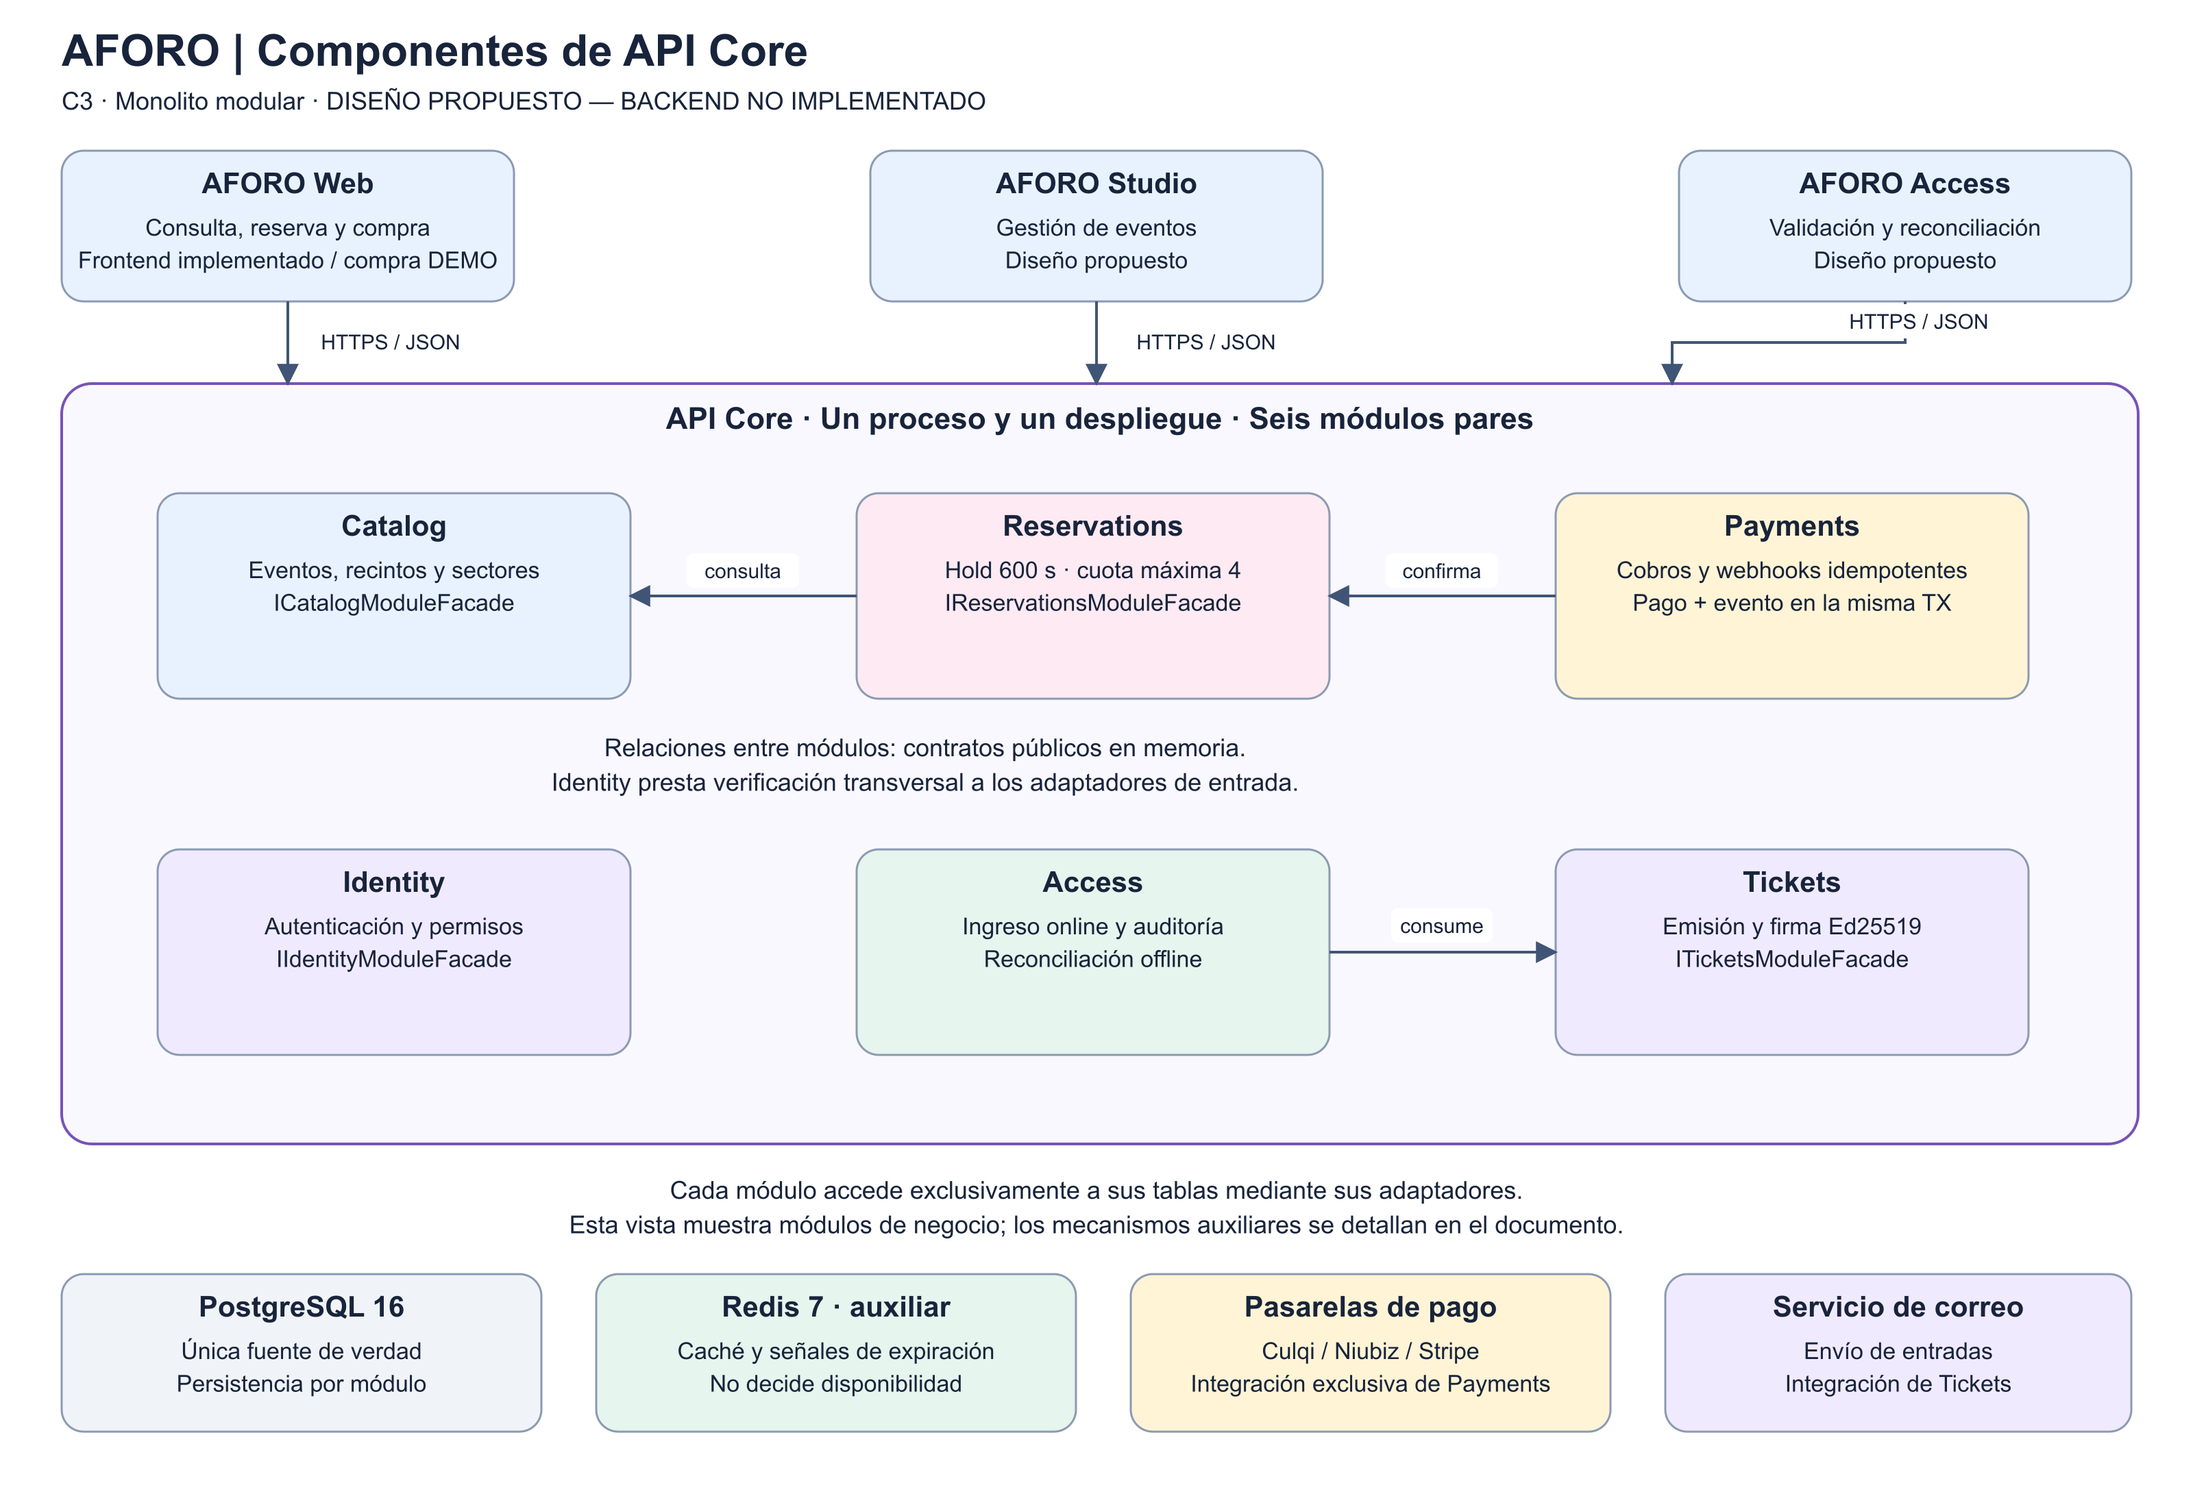
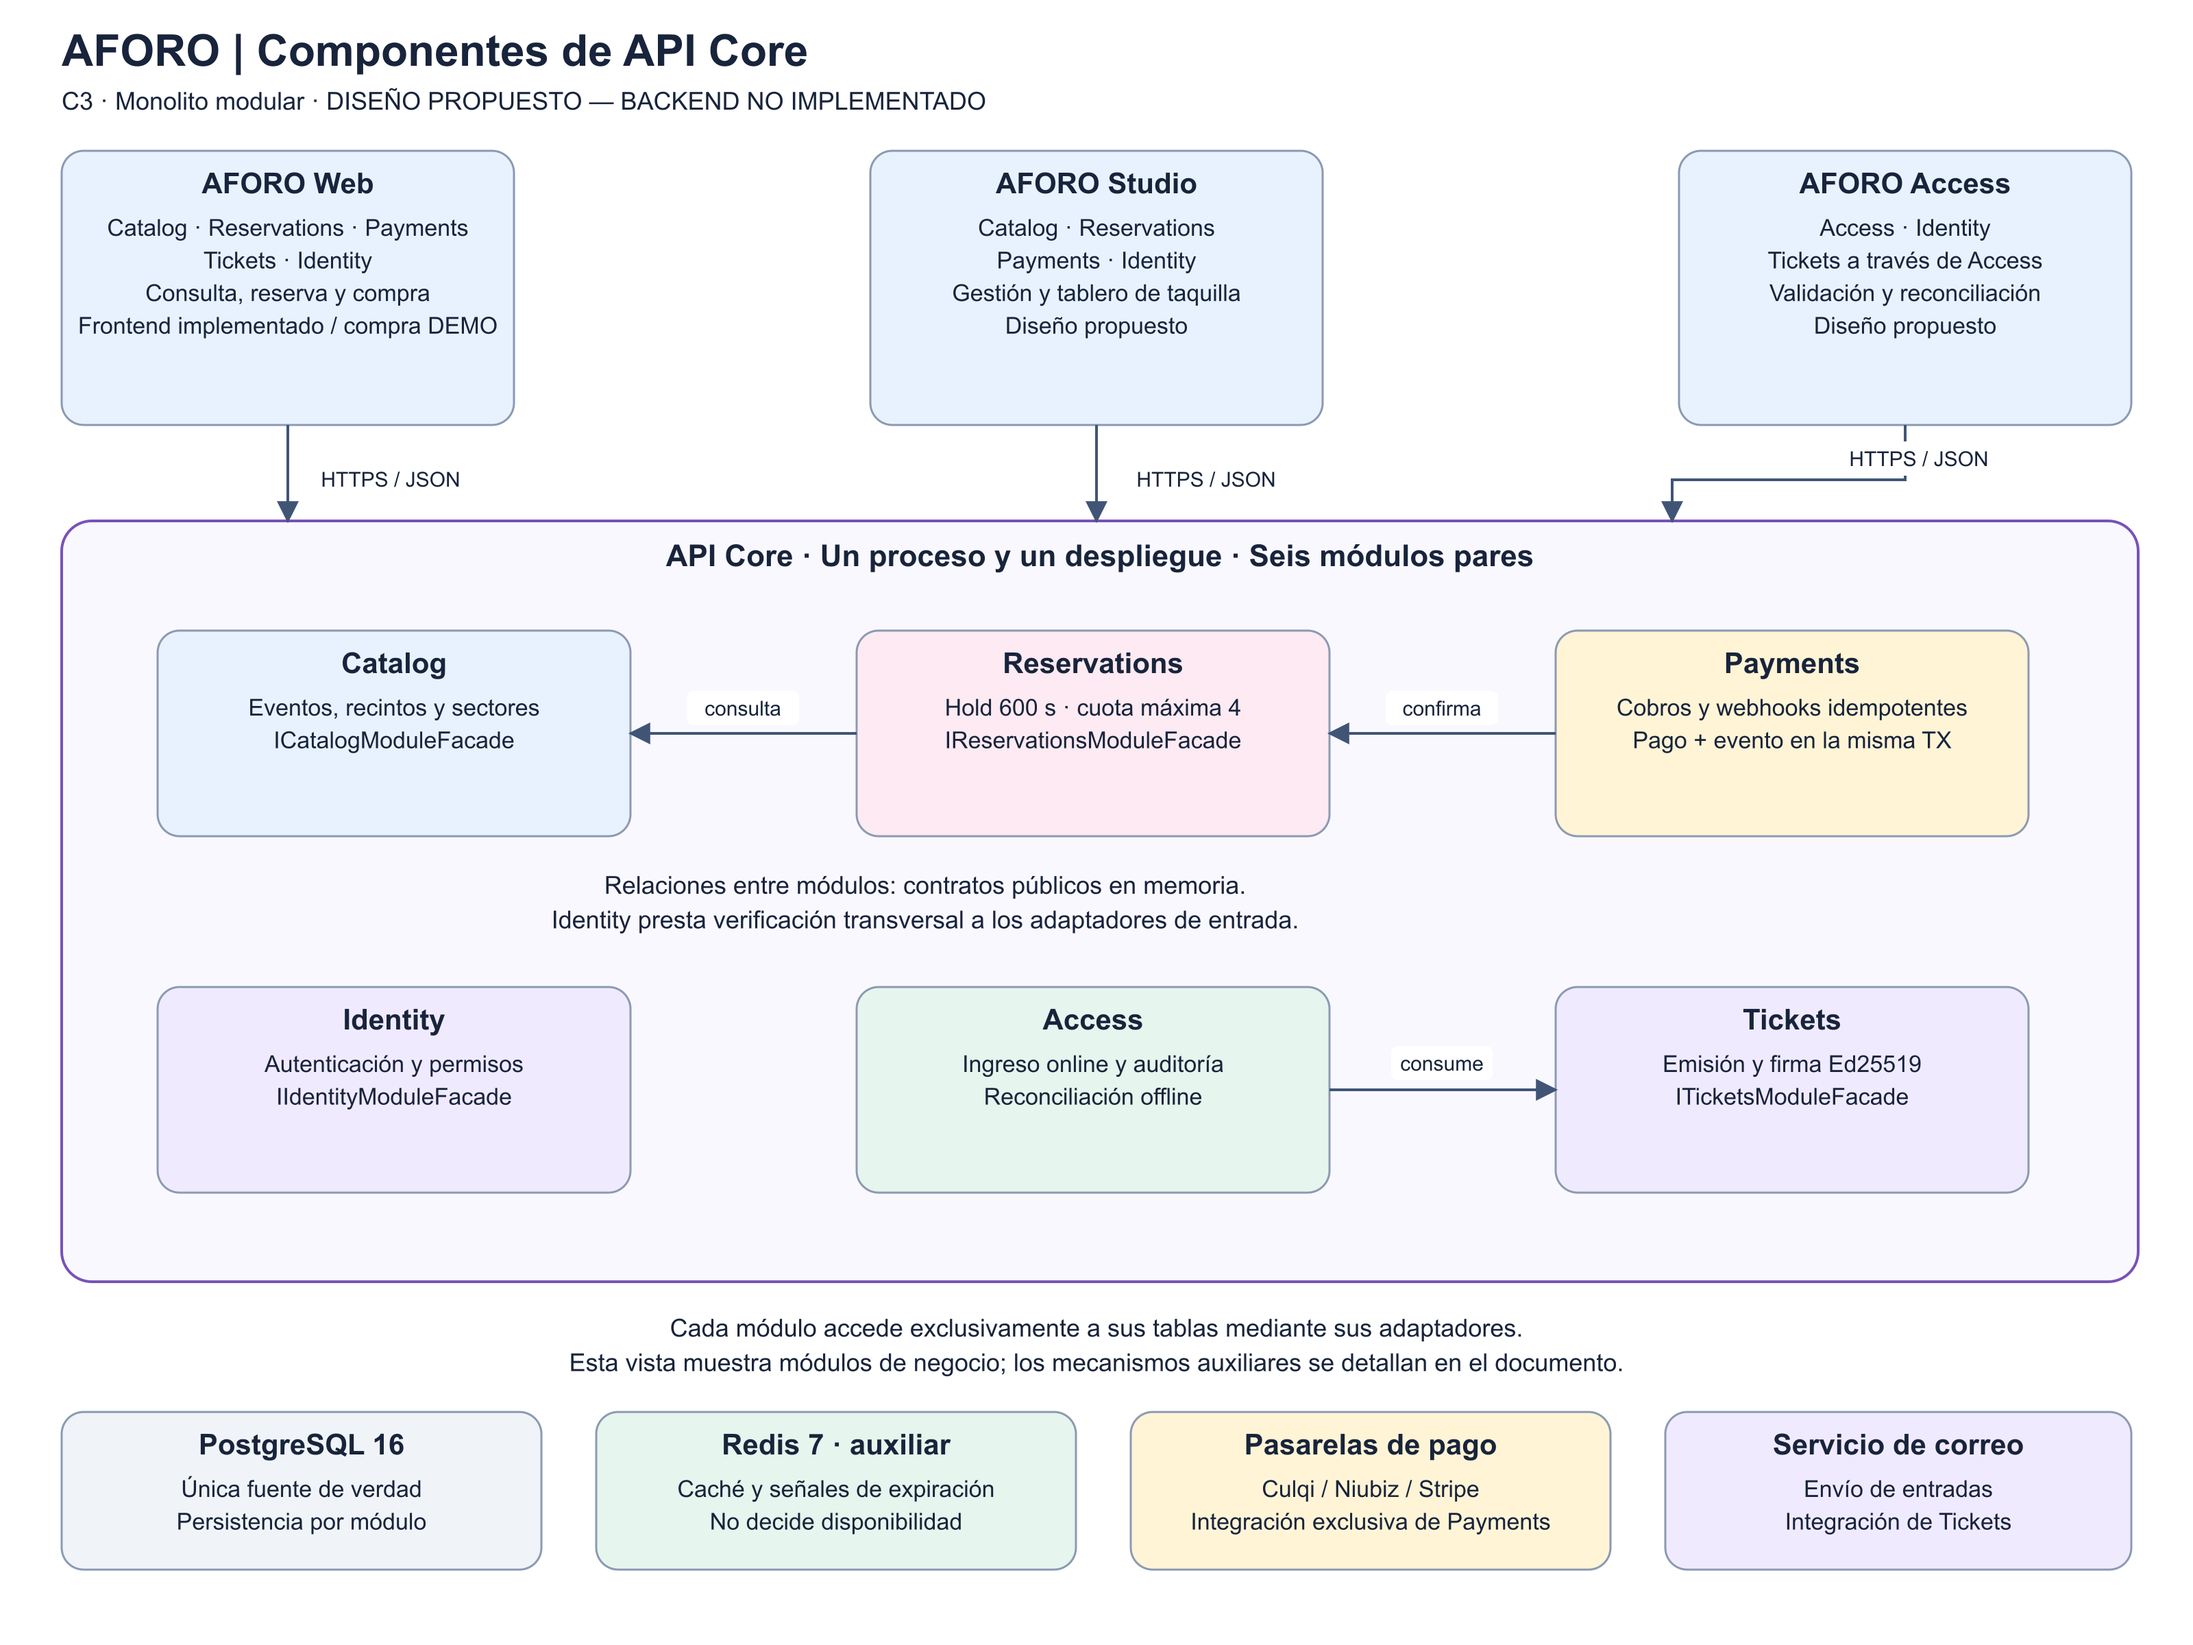
docs: detallar interacción de cada frontend con los módulos

diff --git a/docs/diagramas-exportados/README.md b/docs/diagramas-exportados/README.md
@@ -17,7 +17,7 @@ El catálogo reúne las vistas de C4 y del enfoque arquitectónico. Los document
 | **1** | `C1-contexto` | [`C1-contexto.svg`](C1-contexto.svg) | [`C1-contexto.png`](C1-contexto.png) | `1213 × 828` | [`docs/04-modelo-c4/Nivel1-DiagramadeContextodelSistema.md`](../04-modelo-c4/Nivel1-DiagramadeContextodelSistema.md) | **C4 Nivel 1 (Contexto)**: Actores del dominio (`Fan`, `Promotor`, `Operador de Molinete`, `Admin`), sistema central `Plataforma AFORO` y sistemas externos (`Pasarela de Pagos`, `Servicio de Correo`). |
 | **2** | `C2-contenedores` | [`C2-contenedores.svg`](C2-contenedores.svg) | [`C2-contenedores.png`](C2-contenedores.png) | `1869 × 1540` | [`docs/04-modelo-c4/Nivel2-DiagramadeContenedores.md`](../04-modelo-c4/Nivel2-DiagramadeContenedores.md) | **C4 Nivel 2 (Contenedores — Vista Principal)**: Aplicaciones cliente (`AFORO Web SPA`, `AFORO Studio SPA`, `AFORO Access PWA`), `API Core Backend` (Monolito Modular), `PostgreSQL 16` (única fuente de verdad) y `Redis 7` (auxiliar). |
 | **3** | `C2-offline` | [`C2-offline.svg`](C2-offline.svg) | [`C2-offline.png`](C2-offline.png) | `1623 × 891` | [`docs/04-modelo-c4/Nivel2-DiagramadeContenedores.md`](../04-modelo-c4/Nivel2-DiagramadeContenedores.md) | **C4 Nivel 2 (Vista Complementaria Offline)**: Detalle interno del sandbox de navegador en `AFORO Access PWA` con `Web Crypto API` (Ed25519), `Service Worker` y los 3 *Object Stores* B-Tree en `IndexedDB` (`ADR-006`). |
-| **4** | `C3-modulos` | [`C3-modulos.svg`](C3-modulos.svg) | [`C3-modulos.png`](C3-modulos.png) | `1600 × 1100` | [`docs/04-modelo-c4/Nivel3-Diagrama-de-Componentes.md`](../04-modelo-c4/Nivel3-Diagrama-de-Componentes.md) | **C4 Nivel 3 (Vista C3-A — Topología Intermodular)**: Únicamente los seis módulos pares dentro de API Core, contratos públicos en memoria e infraestructura resumida. |
+| **4** | `C3-modulos` | [`C3-modulos.svg`](C3-modulos.svg) | [`C3-modulos.png`](C3-modulos.png) | `1600 × 1200` | [`docs/04-modelo-c4/Nivel3-Diagrama-de-Componentes.md`](../04-modelo-c4/Nivel3-Diagrama-de-Componentes.md) | **C4 Nivel 3 (Vista C3-A — Topología Intermodular)**: Únicamente los seis módulos pares dentro de API Core, contratos públicos en memoria e infraestructura resumida. |
 | **5** | `C3-hexagonal` | [`C3-hexagonal.svg`](C3-hexagonal.svg) | [`C3-hexagonal.png`](C3-hexagonal.png) | `1600 × 1120` | [`docs/04-modelo-c4/Nivel3-Diagrama-de-Componentes.md`](../04-modelo-c4/Nivel3-Diagrama-de-Componentes.md) | **C4 Nivel 3 (Vista C3-B — Estructura Hexagonal e Inversión de Dependencias)**: Vista representativa de Reservations: aplicación, dominio, puertos y adaptadores; realización hacia interfaces de aplicación. |
 | **6** | `C4-clases` | [`C4-clases.svg`](C4-clases.svg) | [`C4-clases.png`](C4-clases.png) | `3712 × 1420` | [`docs/04-modelo-c4/Nivel4-DiagramadeCodigo.md`](../04-modelo-c4/Nivel4-DiagramadeCodigo.md) | **C4 Nivel 4 (Diagrama de Clases UML)**: Diseño estructural del módulo `Reservations` (`IReservationsModuleFacade`, `ReservationsModuleFacadeImpl`, `HoldTicketsUseCase`, `SectorInventory`, `Reservation`, `IReservationUnitOfWork`, `PostgreSQLReservationAdapter`, `RedisTTLTimerAdapter`). |
 | **7** | `C4-secuencia` | [`C4-secuencia.svg`](C4-secuencia.svg) | [`C4-secuencia.png`](C4-secuencia.png) | `1558 × 910` | [`docs/04-modelo-c4/Nivel4-DiagramadeCodigo.md`](../04-modelo-c4/Nivel4-DiagramadeCodigo.md) | **C4 Nivel 4 (Diagrama de Secuencia)**: Delimitación de transacción única en PostgreSQL (`READ COMMITTED` + `SELECT ... FOR UPDATE`), validación de invariantes ($S + H \le C$ y tope de 4 entradas) y alarma post-commit en Redis. |

diff --git a/docs/04-modelo-c4/Nivel3-Diagrama-de-Componentes.md b/docs/04-modelo-c4/Nivel3-Diagrama-de-Componentes.md
@@ -66,6 +66,20 @@ flowchart LR
 
 </details>
 
+### 2.1.1 Frontends y módulos que consumen
+
+Las siguientes interacciones son **diseño propuesto**: se realizarán mediante los controladores REST de API Core (HTTPS/JSON), nunca accediendo a tablas o invocando fachadas TypeScript desde el navegador. Actualmente AFORO Web usa datos locales y simula la compra.
+
+| Frontend | Módulos consumidos mediante API Core | Operaciones y trazabilidad |
+|---|---|---|
+| **AFORO Web** | **Catalog, Reservations, Payments, Tickets e Identity** | Catalog: cartelera, detalle y sectores (RF-WEB-01, RF-WEB-05, RF-WEB-06). Reservations: disponibilidad, hold y estado de reserva. Payments: iniciar compra y consultar su resultado. Tickets: consultar las entradas del comprador. Identity: sesión e identidad para operaciones protegidas. Los flujos transaccionales se detallan en RF-COR y RN-01 a RN-07. |
+| **AFORO Studio** | **Catalog, Reservations, Payments e Identity** | Catalog: eventos, recintos, sectores, fases y cierre comercial (RF-STU-02 a RF-STU-04 y RF-STU-06). Reservations: reservas vigentes, disponibilidad y ventas para el tablero. Payments: recaudación y liquidación (RF-STU-05, RF-STU-06). Identity: autenticación y permisos de promotor (RF-STU-01). Las consultas del tablero requieren contratos de lectura propios de cada módulo; no se introduce un séptimo módulo de reportes. |
+| **AFORO Access** | **Access e Identity** | Identity: autenticar al operador y la terminal (RF-ACC-01). Access: precarga de padrón y clave pública, validación online y reconciliación (RF-ACC-02, RF-ACC-05, RF-ACC-06). La captura QR y la verificación offline ocurren localmente en la PWA (RF-ACC-03, RF-ACC-04). |
+
+**Interacciones indirectas**: Access consulta y consume entradas mediante ITicketsModuleFacade dentro del backend; AFORO Access no llama directamente a Tickets. Reservations consulta Catalog; Payments confirma la reserva con Reservations y la emisión se despacha hacia Tickets mediante Outbox. Esas colaboraciones no se convierten en llamadas adicionales del navegador.
+
+**Clasificación del frontend**: la arquitectura documentada contempla tres aplicaciones cliente especializadas (dos SPA y una PWA), que comparten API Core. No se ha definido su composición como microfrontends. Ese enfoque implica piezas de frontend entregables de forma independiente y compuestas en una experiencia mayor; tener aplicaciones separadas para compradores, promotores y operadores no demuestra por sí solo esa composición. Referencia conceptual: [Micro Frontends, Cam Jackson](https://martinfowler.com/articles/micro-frontends.html). El backend conserva el monolito modular aprobado.
+
 ### 2.2 Vista C3-B: Enfoque hexagonal del módulo Reservations
 
 ![Vista representativa de puertos, aplicación, dominio y adaptadores](../diagramas-exportados/C3-hexagonal.png)

diff --git a/docs/04-modelo-c4/Nivel2-DiagramadeContenedores.md b/docs/04-modelo-c4/Nivel2-DiagramadeContenedores.md
@@ -8,6 +8,8 @@
 
 ---
 
+> **Aplicaciones cliente especializadas**: Web, Studio y Access comparten API Core; no se ha definido una composición de microfrontends. La [matriz frontend–módulos de C3](Nivel3-Diagrama-de-Componentes.md#211-frontends-y-módulos-que-consumen) especifica sus interacciones directas e indirectas, todas propuestas para la integración futura.
+
 ## 1. Propósito y Alcance del Diagrama C2
 
 El **Diagrama de Contenedores (C2)** realiza una descomposición del sistema AFORO en sus unidades ejecutables de alto nivel (aplicaciones cliente, servicios de servidor y almacenes de datos). Muestra la topología global de software, las responsabilidades de cada contenedor y los protocolos de comunicación utilizados.
